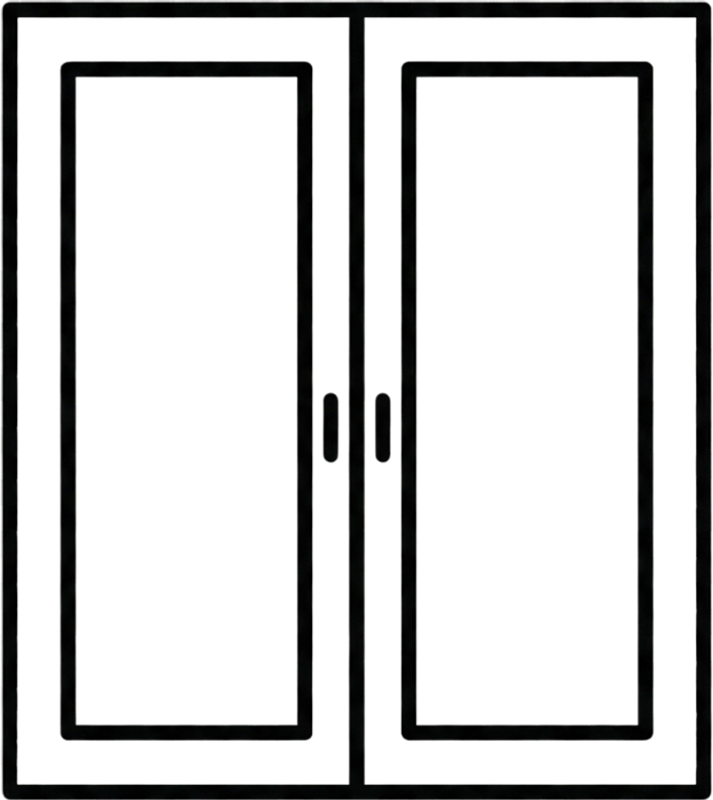
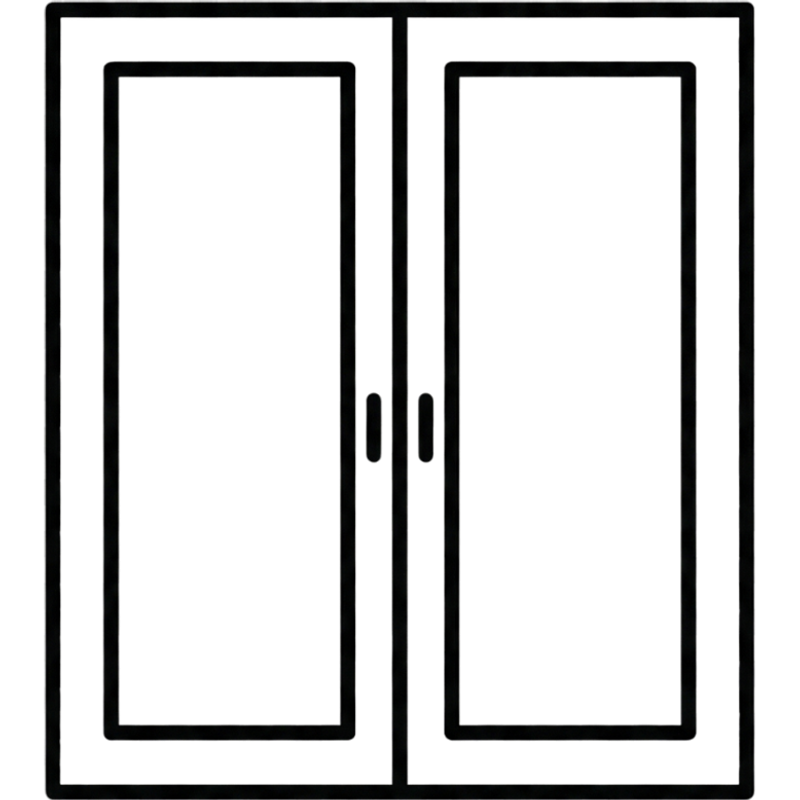
Все SVG-иконки квиза заменены на PNG-картинки, выровнены 800x800
- Этап 1: окна, балконный блок, остекление, двери ПВХ
- Окна → куда: квартира, дом, дача
- Окна → тип: одно/двух/трёхстворчатое
- Балконный блок → расположение: слева, чебурашка, справа
- Остекление → форма: прямой, Г, П, Z-образный
- Двери → куда: улица, балкон, внутри

Changed region(s): [[0.8331, 0.0, 1.0, 1.0], [0.0, 0.0, 0.1543, 1.0], [0.4011, 0.0312, 0.5863, 0.9688]]

diff --git a/index.html b/index.html
@@ -1144,17 +1144,17 @@
 
     var QUIZ = {
       product: { title:'1. Что вас интересует?', options:[
-        {value:'windows', label:'Окна', sub:'Квартира, дом, дача', icon:'<svg viewBox="0 0 24 24" fill="none" stroke="currentColor" stroke-width="1.5"><rect x="3" y="3" width="18" height="18" rx="2"/><line x1="12" y1="3" x2="12" y2="21"/><line x1="3" y1="12" x2="21" y2="12"/></svg>'},
-        {value:'balconyBlock', label:'Балконный блок', sub:'Дверь + окно', icon:'<svg viewBox="0 0 24 24" fill="none" stroke="currentColor" stroke-width="1.5"><rect x="2" y="3" width="9" height="18" rx="1"/><rect x="13" y="3" width="9" height="18" rx="1"/><line x1="13" y1="12" x2="22" y2="12"/></svg>'},
-        {value:'balconyWindows', label:'Остекление балкона', sub:'Балкон / лоджия', icon:'<svg viewBox="0 0 24 24" fill="none" stroke="currentColor" stroke-width="1.5"><rect x="2" y="4" width="20" height="16" rx="2"/><line x1="8" y1="4" x2="8" y2="20"/><line x1="16" y1="4" x2="16" y2="20"/></svg>'},
-        {value:'doors', label:'Двери ПВХ', sub:'Входные и межкомнатные', icon:'<svg viewBox="0 0 24 24" fill="none" stroke="currentColor" stroke-width="1.5"><rect x="4" y="2" width="16" height="20" rx="2"/><circle cx="15" cy="12" r="1" fill="currentColor"/></svg>'}
+        {value:'windows', label:'Окна', sub:'Квартира, дом, дача', icon:'<img src="assets/img/пнг для калькулятора/2.png" alt="Окна">'},
+        {value:'balconyBlock', label:'Балконный блок', sub:'Дверь + окно', icon:'<img src="assets/img/пнг для калькулятора/Балконный блок.png" alt="Балконный блок">'},
+        {value:'balconyWindows', label:'Остекление балкона', sub:'Балкон / лоджия', icon:'<img src="assets/img/пнг для калькулятора/остекление балкона.png" alt="Остекление балкона">'},
+        {value:'doors', label:'Двери ПВХ', sub:'Входные и межкомнатные', icon:'<img src="assets/img/пнг для калькулятора/Дверь ПВХ.png" alt="Двери ПВХ">'}
       ]},
       branches: {
         windows:[
           {key:'place', title:'2. Куда нужны окна?', options:[
-            {value:'Квартира',label:'В квартиру',icon:'<svg viewBox="0 0 24 24" fill="none" stroke="currentColor" stroke-width="1.5"><rect x="4" y="8" width="16" height="14" rx="1"/><path d="M12 2L2 8h20L12 2z"/></svg>'},
-            {value:'Дом',label:'В частный дом',icon:'<svg viewBox="0 0 24 24" fill="none" stroke="currentColor" stroke-width="1.5"><path d="M3 12l9-9 9 9"/><path d="M5 10v10a1 1 0 001 1h12a1 1 0 001-1V10"/></svg>'},
-            {value:'Дача',label:'На дачу',icon:'<svg viewBox="0 0 24 24" fill="none" stroke="currentColor" stroke-width="1.5"><path d="M3 12l9-9 9 9"/><path d="M5 10v10h14V10"/><path d="M9 21v-6h6v6"/></svg>'}
+            {value:'Квартира',label:'В квартиру',icon:'<img src="assets/img/пнг для калькулятора/окно в квартиру.png" alt="Квартира">'},
+            {value:'Дом',label:'В частный дом',icon:'<img src="assets/img/пнг для калькулятора/частный дом.png" alt="Дом">'},
+            {value:'Дача',label:'На дачу',icon:'<img src="assets/img/пнг для калькулятора/На дачу.png" alt="Дача">'}
           ]},
           {key:'type', title:'3. Какое окно?', options:[
             {value:'Одностворчатое',label:'Одностворчатое',icon:'<img src="assets/img/пнг для калькулятора/1.png" alt="Одностворчатое" style="width:100%;height:100%;object-fit:contain;">'},
@@ -1163,19 +1163,20 @@
           ]}
         ],
         balconyBlock:[{key:'layout', title:'2. Расположение двери?', options:[
-          {value:'Дверь слева',label:'Дверь слева',icon:'<svg viewBox="0 0 100 80" fill="none" stroke="currentColor" stroke-width="2.5"><rect x="5" y="5" width="30" height="70" rx="2"/><rect x="37" y="15" width="58" height="60" rx="2"/><line x1="16" y1="38" x2="16" y2="44"/></svg>'},
-          {value:'Чебурашка',label:'Дверь по центру',icon:'<svg viewBox="0 0 100 80" fill="none" stroke="currentColor" stroke-width="2.5"><rect x="5" y="15" width="25" height="60" rx="2"/><rect x="32" y="5" width="36" height="70" rx="2"/><rect x="70" y="15" width="25" height="60" rx="2"/><line x1="50" y1="38" x2="50" y2="44"/></svg>'},
-          {value:'Дверь справа',label:'Дверь справа',icon:'<svg viewBox="0 0 100 80" fill="none" stroke="currentColor" stroke-width="2.5"><rect x="5" y="15" width="58" height="60" rx="2"/><rect x="65" y="5" width="30" height="70" rx="2"/><line x1="84" y1="38" x2="84" y2="44"/></svg>'}
+          {value:'Дверь слева',label:'Дверь слева',icon:'<img src="assets/img/пнг для калькулятора/дверь слева.png" alt="Дверь слева">'},
+          {value:'Чебурашка',label:'Дверь по центру',icon:'<img src="assets/img/пнг для калькулятора/чебурашка.png" alt="Чебурашка">'},
+          {value:'Дверь справа',label:'Дверь справа',icon:'<img src="assets/img/пнг для калькулятора/дверь справа.png" alt="Дверь справа">'}
         ]}],
         balconyWindows:[{key:'shape', title:'2. Форма балкона?', options:[
-          {value:'Прямой',label:'Прямой',icon:'<svg viewBox="0 0 24 24" fill="none" stroke="currentColor" stroke-width="1.5"><rect x="3" y="6" width="18" height="12" rx="1"/></svg>'},
-          {value:'Угловой',label:'Угловой',icon:'<svg viewBox="0 0 24 24" fill="none" stroke="currentColor" stroke-width="1.5"><path d="M3 6h12v12H3V6z"/><path d="M15 6l6 6v6h-6"/></svg>'},
-          {value:'П-образный',label:'П-образный',icon:'<svg viewBox="0 0 24 24" fill="none" stroke="currentColor" stroke-width="1.5"><path d="M4 6h16v4H4V6z"/><rect x="4" y="10" width="6" height="8"/><rect x="14" y="10" width="6" height="8"/></svg>'}
+          {value:'Прямой',label:'Прямой',icon:'<img src="assets/img/пнг для калькулятора/Прямой балкон.png" alt="Прямой">'},
+          {value:'Г-образный',label:'Г-образный',icon:'<img src="assets/img/пнг для калькулятора/Г - образный балкон.png" alt="Г-образный">'},
+          {value:'П-образный',label:'П-образный',icon:'<img src="assets/img/пнг для калькулятора/П - образный балкон.png" alt="П-образный">'},
+          {value:'Z-образный',label:'Z-образный',icon:'<img src="assets/img/пнг для калькулятора/Z - образный балкон.png" alt="Z-образный">'}
         ]}],
         doors:[{key:'place', title:'2. Куда нужна дверь?', options:[
-          {value:'Улица',label:'На улицу',icon:'<svg viewBox="0 0 24 24" fill="none" stroke="currentColor" stroke-width="1.5"><path d="M18 8h1a4 4 0 010 8h-1"/><path d="M2 8h16v9a4 4 0 01-4 4H6a4 4 0 01-4-4V8z"/><line x1="6" y1="1" x2="6" y2="4"/><line x1="10" y1="1" x2="10" y2="4"/><line x1="14" y1="1" x2="14" y2="4"/></svg>'},
-          {value:'Балкон',label:'На балкон',icon:'<svg viewBox="0 0 24 24" fill="none" stroke="currentColor" stroke-width="1.5"><rect x="4" y="2" width="16" height="20" rx="2"/><line x1="4" y1="12" x2="20" y2="12"/></svg>'},
-          {value:'Внутри',label:'Внутри помещения',icon:'<svg viewBox="0 0 24 24" fill="none" stroke="currentColor" stroke-width="1.5"><path d="M3 12l9-9 9 9"/><path d="M5 10v10a1 1 0 001 1h12a1 1 0 001-1V10"/><rect x="9" y="14" width="6" height="7"/></svg>'}
+          {value:'Улица',label:'На улицу',icon:'<img src="assets/img/пнг для калькулятора/дверь на улицу.png" alt="На улицу">'},
+          {value:'Балкон',label:'На балкон',icon:'<img src="assets/img/пнг для калькулятора/дверь пвх на балкон.png" alt="На балкон">'},
+          {value:'Внутри',label:'Внутри помещения',icon:'<img src="assets/img/пнг для калькулятора/дверь в комнату.png" alt="Внутри">'}
         ]}]
       }
     };
